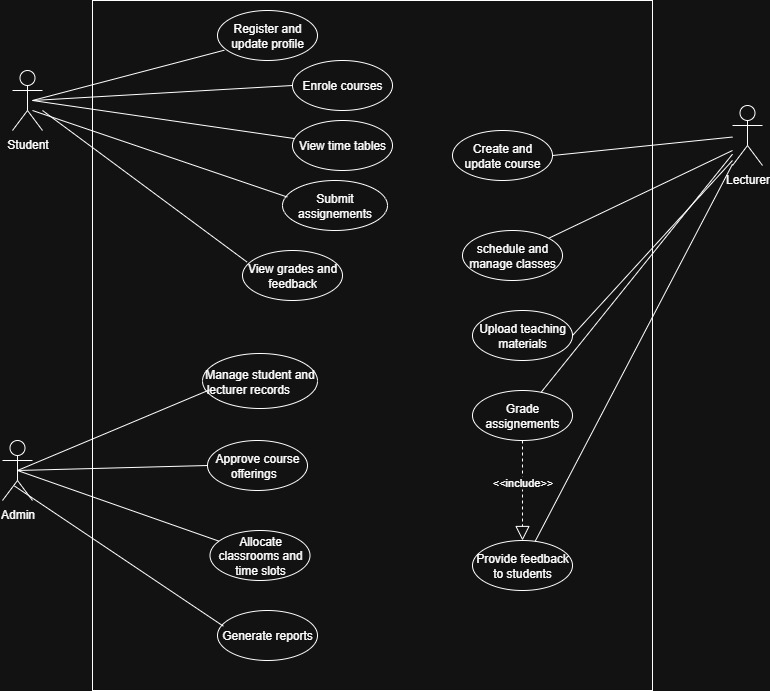
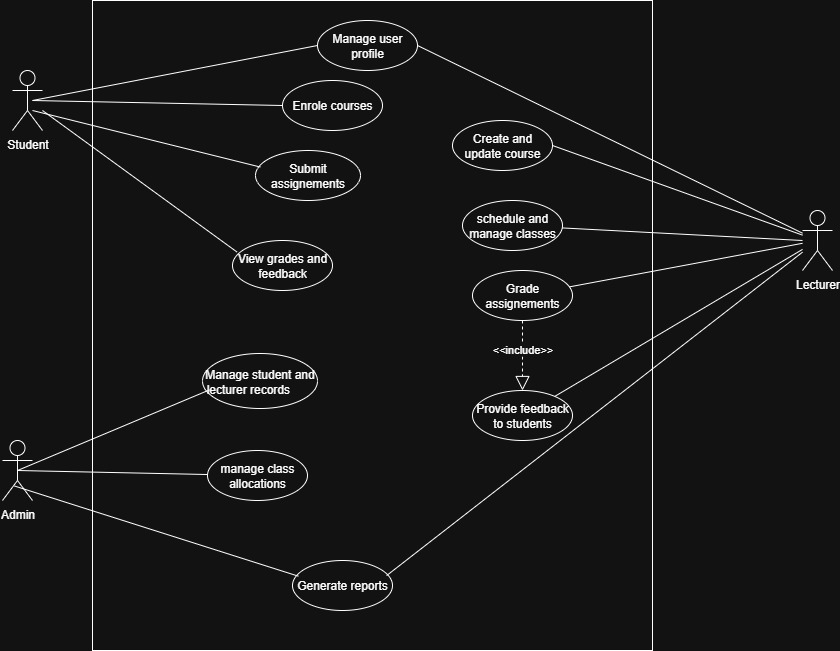
update

diff --git a/week4/usecase.md b/week4/usecase.md
@@ -1,20 +1,20 @@
+Project scope (short paragraph)
+     For given scenario ,Database is to persist data related to Use cases for students studying the college.So student entrolments to   courses and lectures who will be teaching that courses will be the focus 
+
+  
 Actors:
 
-1- Student – main user who enrolls in courses and attends classes.
-
-2- Lecturer – teaches courses and manages classes.
-
-3- Administrator –
+1- Student 
+2- Lecturer
+3- Administrator 
 
 Use Cases:
 
 For Student
 
-    Register and update profile.
+    Mange user profile.
 
     Enroll in courses.
-
-    View timetable / class schedule.
 
     Submit assignments.
 
@@ -26,18 +26,14 @@ For Lecturer
 
     Schedule and manage classes.
 
-    Upload teaching materials.
-
     Grade assignments.
 
     Provide feedback to students.
 
-For Administrator (if included)
+For Administrator
 
     Manage student and lecturer records.
 
-    Approve course offerings.
+    manage class allocations
 
-    Allocate classrooms and time slots.
-
-    Generate reports (enrollment, performance, attendance).
+    Generate reports.
